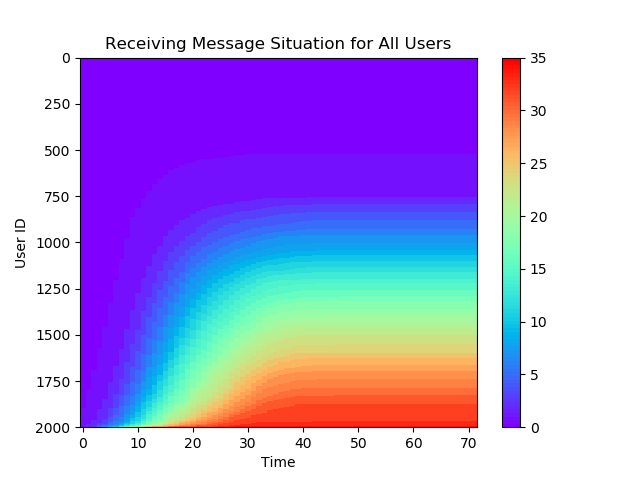
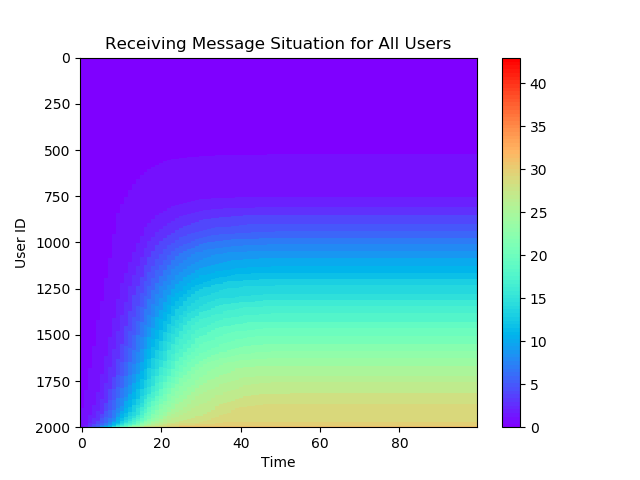
add git output, but the effect is not satisfying

diff --git a/rumorTest/optimize.py b/rumorTest/optimize.py
@@ -4,10 +4,12 @@ import networkx as nx
 import numpy as np
 from queue import Queue
 from time import time
-from typing import List
+from typing import (List, Any)
 from numpy.random import (random, randint, seed, choice)
 import matplotlib.pyplot as plt
 import os
+from moviepy.video.io.bindings import mplfig_to_npimage
+import moviepy.editor as mpy
 
 from informationFlow import Net
 
@@ -45,7 +47,7 @@ def simu_and_plot(net: Net, source: List, tendency: List, name="temp", path="./p
 
     # figure for spread
     cmap = plt.cm.get_cmap('rainbow', 100)
-    plt.imshow(np.sort(Rec, axis=0), interpolation='nearest', cmap=cmap, aspect='auto', vmin=0, vmax=35)
+    plt.imshow(np.sort(Rec, axis=0), interpolation='nearest', cmap=cmap, aspect='auto', vmin=0, vmax=43)
     plt.colorbar()
     plt.xlabel('Time')
     plt.ylabel('User ID')
@@ -68,6 +70,38 @@ def simu_and_plot(net: Net, source: List, tendency: List, name="temp", path="./p
         plt.show()
     else:
         plt.clf()
+    return Rec
+
+
+def develop(rec_1: np.ndarray, rec_2: np.ndarray, rec_3: np.ndarray, path="./picture"):
+    def count_times(rec: np.ndarray, maxcount: int):
+        c = np.zeros((maxcount, rec.shape[1]))
+        for t in range(rec.shape[1]):
+            for i in range(maxcount):
+                rec_temp = rec[:, t]
+                c[i, t] = rec_temp[rec_temp == i].size
+        return c
+
+    max_rec = np.max([rec_1, rec_2, rec_3])
+    rec_1 = count_times(rec_1, int(max_rec))
+    rec_2 = count_times(rec_1, int(max_rec))
+    rec_3 = count_times(rec_1, int(max_rec))
+
+    fig_mpl, ax = plt.subplots(1, figsize=(5, 3), facecolor='white')    # type: Any, plt.Axes
+    ax.set_title("Information spread")
+    ax.set_ylim(0, 10)
+    xx = np.linspace(1, max_rec, max_rec)
+    line = ax.plot(xx, rec_1[:, 0], xx, rec_2[:, 0], xx, rec_3[:, 0])    # type: List[plt.Line2D]
+    duration = rec_1.shape[1] / 20
+
+    def make_frame_mpl(t):
+        line[0].set_ydata(rec_1[:, int(round(t * 20))])
+        line[1].set_ydata(rec_2[:, int(round(t * 20))])
+        line[2].set_ydata(rec_3[:, int(round(t * 20))])
+        return mplfig_to_npimage(fig_mpl)
+
+    animation = mpy.VideoClip(make_frame_mpl, duration=duration)
+    animation.write_gif(os.path.join(path, "all.gif"), fps=20)
 
 
 def main(path="./Graph2k.pickle"):
@@ -80,31 +114,34 @@ def main(path="./Graph2k.pickle"):
     print("%f s: Prepare delay time and prob. " % (time()-start_time))
 
     pr = nx.pagerank_numpy(g)
-    pr = sorted(pr, key=lambda key: pr[key], reverse=True)
+    prlist = sorted(pr, key=lambda key: pr[key], reverse=True)
     print("%f s: Get pagerank and sort user according to it. " % (time()-start_time))
-    selected_by_pagerank = pr[:50]
+    selected_by_pagerank = prlist[:50]
 
     # # time for calculate network constraint is so long!!! I give up.
     # nc = nx.constraint(g)
     # nc = sorted(nc, key=lambda key: nc[key], reverse=True)
     # print("%f s: Get network constraint and sort user according to it. " % (time()-start_time))
 
-    influence = dfs(g, pr[:200])
+    influence = dfs(g, prlist[:500])
     big_name = sorted(influence, key=lambda key: influence[key], reverse=True)
     print("%f s: Get influence of each celebrity. " % (time()-start_time))
     selected_by_influence = big_name[:50]
+    temp = [pr[user] for user in selected_by_influence]
 
     # Stochastic policy
     blue_sources = list(choice(list(set(g.nodes)-set(selected_by_influence)-set(selected_by_pagerank)), 50))
     red_sources = list(choice(list(set(g.nodes)-set(blue_sources)), 50))
-    simu_and_plot(net, red_sources+blue_sources, [1] * 50 + [0] * 50, "Stochastic")
+    rec_1 = simu_and_plot(net, red_sources+blue_sources, [1] * 50 + [0] * 50, "Stochastic")
 
     # our policy
-    simu_and_plot(net, selected_by_influence + blue_sources, [1] * 50 + [0] * 50, "Influence")
+    rec_2 = simu_and_plot(net, selected_by_influence + blue_sources, [1] * 50 + [0] * 50, "Influence")
 
     # pagerank policy
-    simu_and_plot(net, selected_by_pagerank + blue_sources, [1] * 50 + [0] * 50, "PageRank")
+    rec_3 = simu_and_plot(net, selected_by_pagerank + blue_sources, [1] * 50 + [0] * 50, "PageRank")
 
+    # animation
+    develop(rec_1, rec_2, rec_3)
 
 if __name__ == '__main__':
     main()

diff --git a/rumorTest/informationFlow.py b/rumorTest/informationFlow.py
@@ -52,7 +52,7 @@ class Net(object):
         #         对于每一个消息源头,先随机生成一次图
         #         根据随机生成的图跑一次最短路径算法
         #         得到每一个节点收到消息的时间,没收到用大数表示
-        MaxTime = 72
+        MaxTime = 100
         Rec = np.zeros([self.Num, MaxTime])
         politicRed = np.zeros([self.Num, MaxTime])
         politicBlue = np.zeros([self.Num, MaxTime])
@@ -87,7 +87,7 @@ class Net(object):
         # PoliChange[:, 1:] = np.minimum(1, PoliChange[:, 0:-1] + 0.05 * Rec[:, 1:])
         for t in range(n - 1):
             PoliChange[:, t + 1] = np.minimum(1, PoliChange[:, t] + 0.1 * politicRed[:, t + 1] - 0.1 * politicBlue[:,
-                                                                                                       t + 1])  # 越靠近1约red
+                                              t + 1])  # 越靠近1约red
 
         # TODO: 
         # 这里的改变我直接粗暴的乘了0.05
